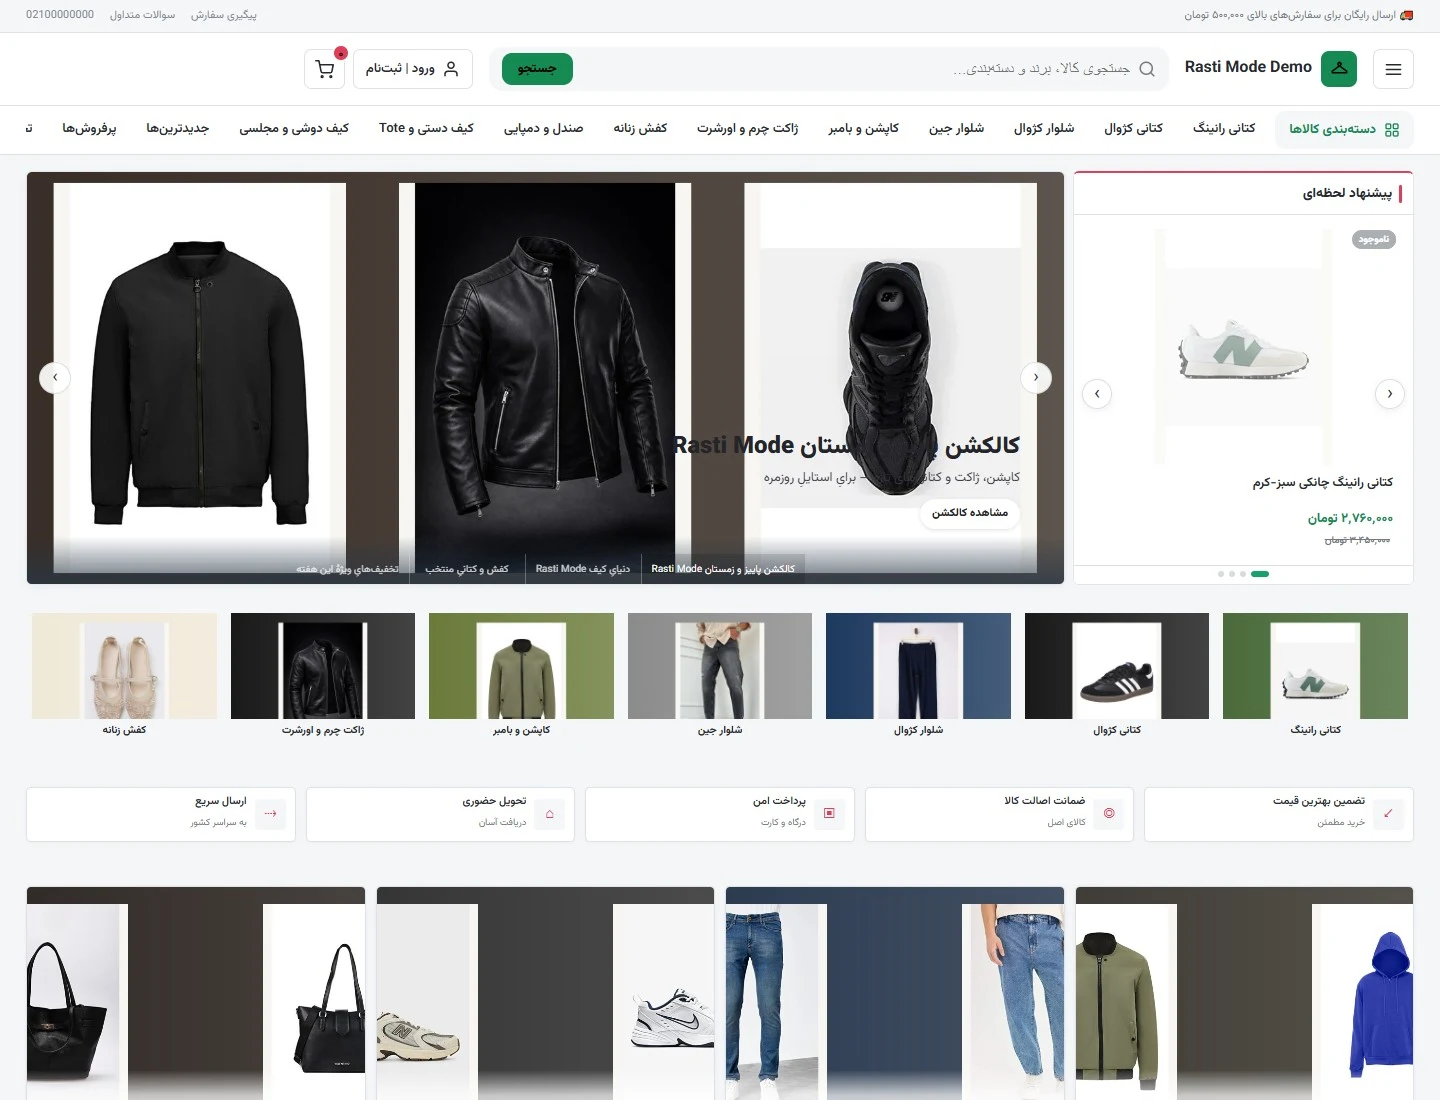
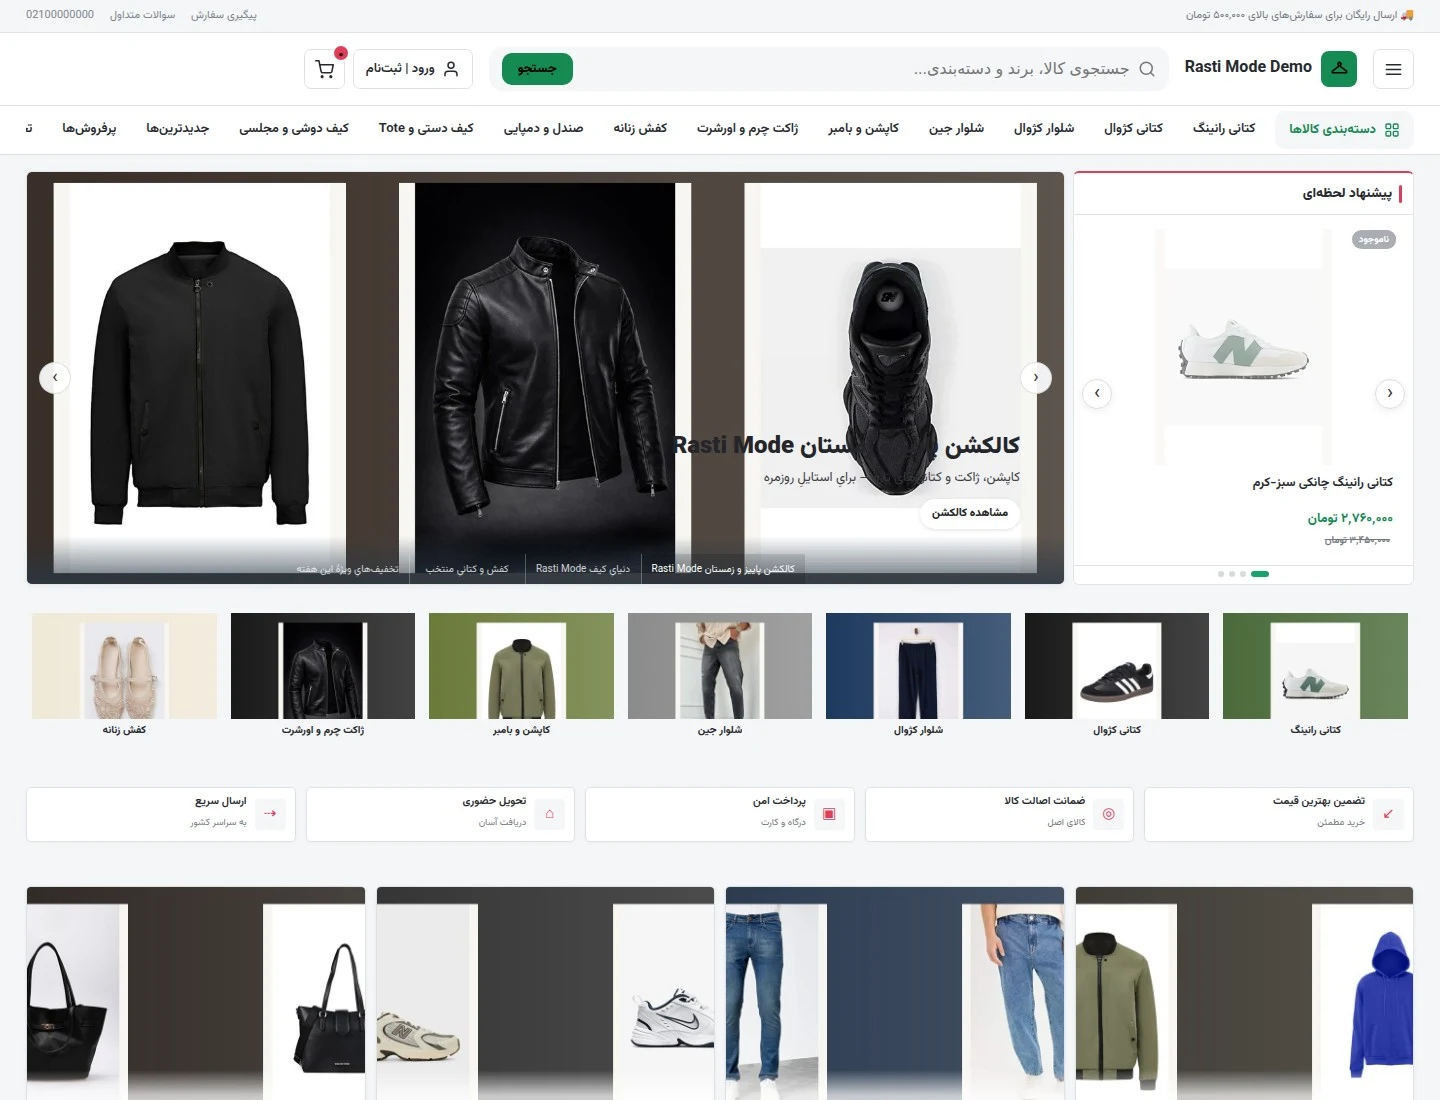
fix(storefront): refresh ready template preview integrity
Recapture the committed real screenshots for dense_marketplace,
premium_leather, and warm_boutique (all v2) — their
preview_input_fingerprint no longer matched the current demo-store
inputs, so resolve_real_screenshot() was falling back to the generic
SVG schematic for all three in the Ready Template gallery. The new
captures were verified pixel-by-pixel against the previously committed
ones before replacing them: same layout, colors, and product imagery,
with only sub-1% scattered rendering-noise pixels (font anti-aliasing/
JPEG-intermediate jitter between capture runs) and the corresponding
fingerprint field changing. All 8 official Ready Templates now resolve
a fresh real screenshot.

Also replaces the brittle, manually-maintained version whitelist in
test_9_only_reference_overhauled_templates_move_beyond_v1 (which had
already drifted out of sync with the registry) with two invariants
that read only from the registry itself: every official template has
a valid registered version, and its preview path always tracks that
version rather than a hardcoded expectation.

diff --git a/apps/storefront_builder/tests/test_ready_template_real_previews.py b/apps/storefront_builder/tests/test_ready_template_real_previews.py
@@ -322,22 +322,70 @@ class VersionedPreviewIdentityTests(TestCase):
         self.assertIn("preset.version", source)
         self.assertNotIn("SCREENSHOT_VERSION", source)
 
-    def test_9_only_reference_overhauled_templates_move_beyond_v1(self):
-        # fashion_promo_catalog is the completed ibolak family (v7); the
-        # laleRokh Home rebuild intentionally advances warm_boutique to v2.
-        # Every other Ready Template remains byte-for-byte on its historical
-        # v1 artifact identity until its own reference-driven pass begins.
-        expected_versions = {
-            "fashion_promo_catalog": "7",
-            "warm_boutique": "2",
-        }
+    def test_9_every_official_templates_registered_version_is_valid(self):
+        """Batch 1 rework (audit-flagged drift) — see the module-level note
+        above this class's ``test_9`` for why the previous version of this
+        test (a hardcoded ``{key: expected_version}`` whitelist) was
+        replaced. This half of the replacement covers the "every official
+        Ready Template has a valid registered version" contract: a
+        non-empty string, exactly the shape ``screenshot_relpath``/
+        ``meta_relpath`` require. It does not encode *which* version any
+        key "should" be at — that is the registry's job, not a test's."""
         for key in READY_TEMPLATE_KEYS:
             preset = lpr.get_layout_preset(key)
-            expected_version = expected_versions.get(key, "1")
-            self.assertEqual(preset.version, expected_version, key)
+            self.assertIsInstance(preset.version, str, key)
+            self.assertTrue(preset.version, key)
+
+    def test_9b_every_official_templates_screenshot_path_tracks_its_own_registry_version(self):
+        """Batch 1 rework (audit-flagged drift) — replaces the former
+        ``test_9_only_reference_overhauled_templates_move_beyond_v1``.
+
+        Old test's intent: guard against the Part 2B regression class,
+        where ``screenshot_relpath``/``meta_relpath`` once defaulted to a
+        fixed, independent ``SCREENSHOT_VERSION`` module constant instead
+        of the Preset's own ``version`` field (see
+        ``VersionedPreviewIdentityTests``'s class docstring) — so a bumped
+        Preset could silently keep resolving a stale, lower-version file.
+        The old test proved this by hardcoding *which* version each of the
+        8 keys was expected to be at (``{"fashion_promo_catalog": "7",
+        "warm_boutique": "2"}``, default ``"1"`` for the rest) and
+        asserting both the registry and the derived path matched that
+        table.
+
+        Why that was a second source of truth, and why it drifted: the
+        table encoded a *product* fact ("only these Templates have had
+        their reference-driven overhaul so far") that lives nowhere else
+        in the codebase — nothing keeps it in sync with
+        ``layout_preset_registry.py`` when a Template's version changes
+        for a legitimate reason. Exactly that happened: ``dense_marketplace``
+        and ``premium_leather`` were both bumped to version "2" by the
+        reference-driven-families work, and this test's table was never
+        updated — so it started failing not because the *path-derivation*
+        invariant it was meant to protect broke, but because an unrelated,
+        manually-maintained expectation fell out of sync with reality.
+
+        New invariant: for every official Ready Template, re-derive
+        ``screenshot_relpath``/``meta_relpath`` from the registry's OWN
+        CURRENT ``preset.version`` and assert the result is internally
+        consistent — i.e. exactly the path a screenshot for *this* version
+        would live at, never a hardcoded literal version number. This
+        still catches the original Part 2B regression class (a preview
+        path/version identity that has drifted from the registry) for
+        every current and future official Template, automatically, with
+        no whitelist to maintain and nothing that can go stale as
+        versions legitimately change. The registry stays the only source
+        of truth for what each Template's version actually is.
+        """
+        for key in READY_TEMPLATE_KEYS:
+            preset = lpr.get_layout_preset(key)
             self.assertEqual(
                 tps.screenshot_relpath(preset.key, preset.version),
-                f"ready_template_previews/{key}/v{expected_version}.webp",
+                f"ready_template_previews/{key}/v{preset.version}.webp",
+                key,
+            )
+            self.assertEqual(
+                tps.meta_relpath(preset.key, preset.version),
+                f"ready_template_previews/{key}/v{preset.version}.meta.json",
                 key,
             )
 
